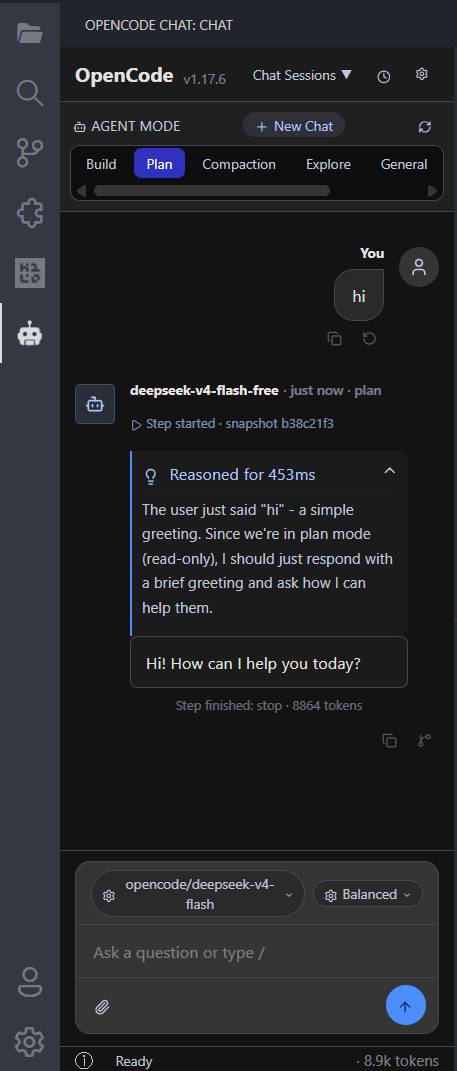
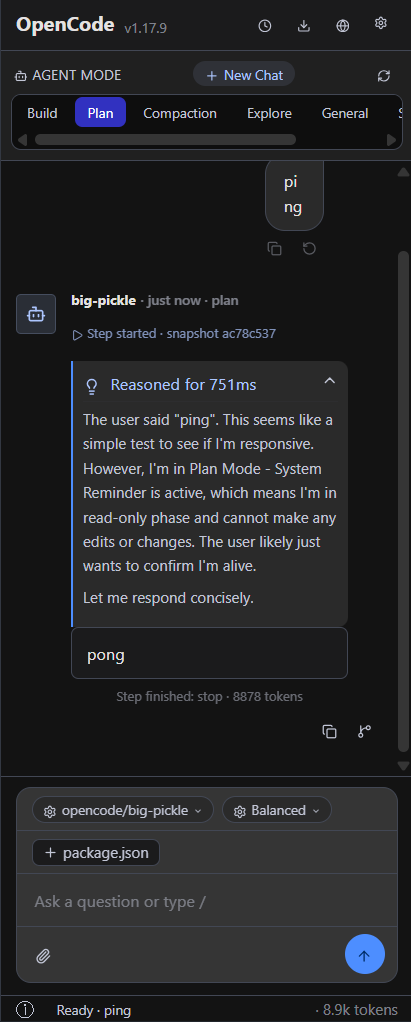
feat(cli): add caching for models/agents and improve auto-fetch behavior

diff --git a/src/OpenCodeCli.ts b/src/OpenCodeCli.ts
@@ -125,6 +125,9 @@ export class OpenCodeCli {
   private serverProc: { pid: number; kill(): void } | null = null;
   private serverPassword = "";
   private cwd = "";
+  private modelsCache: { data: string[]; ts: number } | null = null;
+  private agentsCache: { data: string[]; ts: number } | null = null;
+  private readonly CACHE_TTL = 60000;
 
   static setOutputChannel(ch: import("vscode").OutputChannel): void {
     OpenCodeCli.outputChannel = ch;
@@ -592,9 +595,12 @@ export class OpenCodeCli {
     }
   }
 
-  async listModels(): Promise<string[]> {
+  async listModels(forceRefresh = false): Promise<string[]> {
     try {
-      if (!this.client) { this.log("listModels: client is null"); return []; }
+      if (!forceRefresh && this.modelsCache && Date.now() - this.modelsCache.ts < this.CACHE_TTL) {
+        return this.modelsCache.data;
+      }
+      if (!this.client) { this.log("listModels: client is null, attempting reconnect..."); try { await this.ensureServerHealthy(); } catch {} if (!this.client) return []; }
       const result: any = await this.client.config.providers();
       const data: any = result.data;
       const error: any = result.error;
@@ -629,6 +635,7 @@ export class OpenCodeCli {
         }
       }
       this.log(`listModels: returning ${models.length} models`);
+      this.modelsCache = { data: models, ts: Date.now() };
       return models;
     } catch (e) {
       this.log(`listModels error: ${e}`);
@@ -638,7 +645,7 @@ export class OpenCodeCli {
 
   async getProviderInfo(): Promise<Array<{ id: string; name: string; key?: string; modelCount: number }>> {
     try {
-      if (!this.client) { this.log("getProviderInfo: client is null"); return []; }
+      if (!this.client) { this.log("getProviderInfo: client is null, attempting reconnect..."); try { await this.ensureServerHealthy(); } catch {} if (!this.client) return []; }
       const result = await this.client.config.providers();
       const data: any = result.data;
       if (!data) return [];
@@ -655,11 +662,17 @@ export class OpenCodeCli {
     }
   }
 
-  async listAgents(): Promise<string[]> {
+  async listAgents(forceRefresh = false): Promise<string[]> {
     try {
-      const result = await this.client!.app.agents();
+      if (!forceRefresh && this.agentsCache && Date.now() - this.agentsCache.ts < this.CACHE_TTL) {
+        return this.agentsCache.data;
+      }
+      if (!this.client) { this.log("listAgents: client is null"); return []; }
+      const result = await this.client.app.agents();
       const agents = result.data ?? [];
-      return agents.map((a: { name: string }) => a.name);
+      const names = agents.map((a: { name: string }) => a.name);
+      this.agentsCache = { data: names, ts: Date.now() };
+      return names;
     } catch (e) {
       this.log(`listAgents error: ${e}`);
       return [];
@@ -1102,6 +1115,11 @@ export class OpenCodeCli {
     } finally {
       try { await this.client!.session.delete({ path: { id: sessionId } }); } catch {}
     }
+  }
+
+  clearCaches(): void {
+    this.modelsCache = null;
+    this.agentsCache = null;
   }
 
   detach(): void {

diff --git a/src/OpenCodeViewProvider.ts b/src/OpenCodeViewProvider.ts
@@ -223,7 +223,7 @@ export class OpenCodeViewProvider implements vscode.WebviewViewProvider {
           await this.refreshSessions().catch((e) => this.log(`refreshSessions error: ${e}`));
           break;
         case "refresh-models":
-          await this.refreshModels().catch((e) => this.log(`refreshModels error: ${e}`));
+          await this.refreshModels(true).catch((e) => this.log(`refreshModels error: ${e}`));
           break;
         case "update-model": {
           const model = message.model as string;
@@ -470,6 +470,7 @@ export class OpenCodeViewProvider implements vscode.WebviewViewProvider {
             this.view.webview.postMessage({ type: "providers", providers });
           } catch (e) {
             this.log(`getProviderInfo error: ${e}`);
+            try { this.view.webview.postMessage({ type: "providers", providers: [] }); } catch {}
           }
           break;
         }
@@ -553,11 +554,12 @@ export class OpenCodeViewProvider implements vscode.WebviewViewProvider {
     }
   }
 
-  async refreshModels(): Promise<void> {
+  async refreshModels(forceRefresh = false): Promise<void> {
     if (!this.view) { this.log("refreshModels: no view, skip"); return; }
     this.log("refreshModels");
     try {
-      const models = await this.cli.listModels();
+      if (forceRefresh) this.cli.clearCaches();
+      const models = await this.cli.listModels(forceRefresh);
       this.log(`refreshModels: got ${models.length} models`);
       this.view.webview.postMessage({ type: "models", models });
     } catch (e) {
@@ -566,11 +568,12 @@ export class OpenCodeViewProvider implements vscode.WebviewViewProvider {
     }
   }
 
-  private async refreshAgents(): Promise<void> {
+  private async refreshAgents(forceRefresh = false): Promise<void> {
     if (!this.view) { this.log("refreshAgents: no view, skip"); return; }
     this.log("refreshAgents");
     try {
-      const agents = await this.cli.listAgents();
+      if (forceRefresh) this.cli.clearCaches();
+      const agents = await this.cli.listAgents(forceRefresh);
       this.log(`refreshAgents: got ${agents.length} agents`);
       this.view.webview.postMessage({ type: "agents", agents });
     } catch (e) {
@@ -627,6 +630,8 @@ export class OpenCodeViewProvider implements vscode.WebviewViewProvider {
     }
 
     let capturedSessionId = sessionId;
+    this.log("sendMessage: stopping auto-fetch during active chat");
+    this.stopAutoFetch();
     this.cli.runPrompt(
       text,
       opts,
@@ -655,6 +660,8 @@ export class OpenCodeViewProvider implements vscode.WebviewViewProvider {
         try { this.view?.webview.postMessage({ type: "response-end" }); }
         catch (e) { this.log(`sendMessage: onExit postMessage error: ${e}`); }
         this.refreshSessions().catch((e) => this.log(`sendMessage: refreshSessions after exit error: ${e}`));
+        this.log("sendMessage: restarting auto-fetch after prompt exit");
+        this.startAutoFetch();
       }
     );
   }

diff --git a/src/webview/app.ts b/src/webview/app.ts
@@ -1203,7 +1203,13 @@ class App {
     this.scrollToBottom(smooth);
   }
 
+  private isAtBottom(threshold = 80): boolean {
+    const el = this.chatArea;
+    return el.scrollHeight - el.scrollTop - el.clientHeight < threshold;
+  }
+
   private scrollToBottom(smooth: boolean): void {
+    if (!this.isAtBottom()) return;
     if (smooth) {
       this.chatArea.scrollTo({ top: this.chatArea.scrollHeight, behavior: "smooth" });
     } else {

diff --git a/README.md b/README.md
@@ -13,6 +13,12 @@ Compatible with VS Code, VSCodium, Cursor, Windsurf, and any editor supporting t
 ![Landing page](media/landing.png)
 *Select old chat to continue or start new chat*
 
+![AI Commit Message Generator](media/ai-commit-message-generator.png)
+*Generate conventional commit messages from staged/unstaged git diff*
+
+![Easy current file pick](media/easy-current-file-pick.png)
+*Attach workspace files via @ mention menu or attachment icon*
+
 ## Features
 
 ### Core
